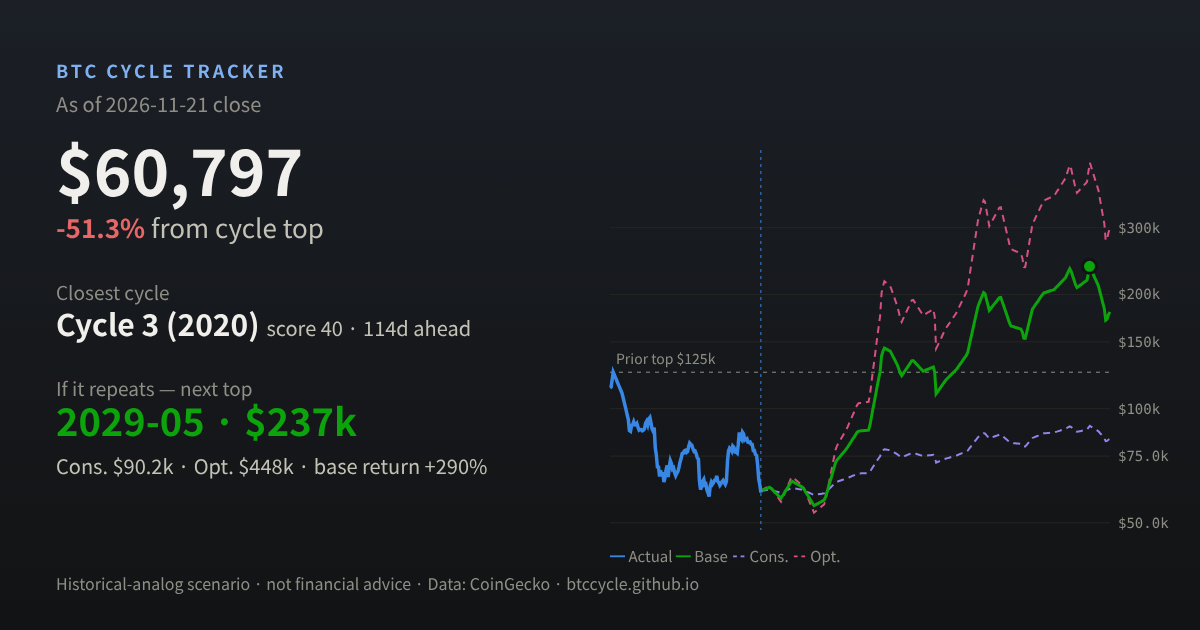
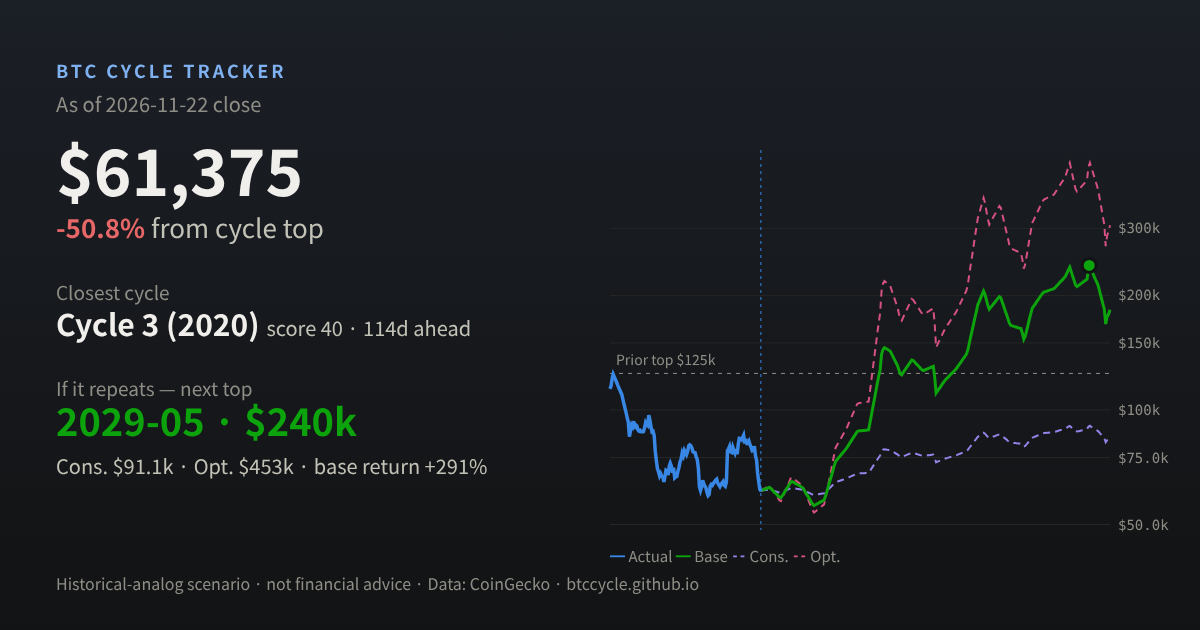
Daily data 2026-11-23

diff --git a/index.html b/index.html
@@ -496,7 +496,7 @@ const NEXT_HALVING_EST = '2028-04-15';
 // CoinGecko get-coin-market-chart snapshot (id=bitcoin; days=365/90/7), taken 2026-11-15 — fallback when the live API is unreachable
 const CG_SNAPSHOT = {"d365":{"startTs":1763251200000,"endTs":1794752830000,"prices":[95380,92903,85088,88256,91324,90360,93429,89227,91987,90253,87720,88092,88490,87192,87867,87575,90614,93650,90552,91201,95593,93344,89454,86625,89212,78647,75628,70273,70175,66259,68779,66427,68026,64074,65891,68816,70868,66043,70417,72934,71220,68424,70529,66330,66691,66888,69002,70645,73022,74297,77126,75858,78275,77367,76297,78512,81437,80678,80482,79069,76959,77550,77016,74340,73820,66727,60960,61670,63532,66293,62897,63255,60990,59953,58566,62554,64001,63193,63747,64717,64796,66521,64318,63882,62820,63465,64263,64856,63409,63031,64686,78318,78974,80268,77658,77297,79822,78283,77262,75590,80874,86597,84378,84449,83576,84743,85540,82564,81795,82156,82020,84082,80049,81274,77521,77385,75775,75267,71372,65197]},"d90":{"startTs":1786996800000,"endTs":1794771080000,"prices":[64241,64166,64250,69679,72643,77342,77181,77065,77394,79458,79157,79069,78706,80329,79292,77513,78157,79316,78670,78698,77241,77155,77700,81056,79671,80045,79912,79750,79093,78511,79586,78405,76879,77037,77317,77099,76767,78986,76548,75699,76320,76533,80014,81286,80276,81071,85822,86180,86528,84226,84393,84569,83927,84142,84443,82630,83038,83583,84296,83936,86620,84543,84856,85293,85751,85771,85722,83713,82638,81686,82374,82745,83093,83869,82365,83278,83370,81564,82309,81961,81626,81594,80814,82202,81448,82727,84627,81810,81670,80908,80348,80557,80449,79704,80825,80451,80203,78147,76872,77554,77983,78334,76781,77573,78405,80354,76006,75694,75922,75727,75191,74609,74312,73551,74002,71690,69507,67133,62612,64937]},"d7":{"startTs":1794168000000,"endTs":1794770510000,"prices":[75849,75687,74406,74740,75092,75195,74781,74415,74256,74482,74217,74316,74847,74659,75465,75007,74609,74803,74804,75182,75267,75004,74792,74479,74740,74566,74635,74448,74338,74312,73704,73210,72840,73416,73390,73704,73625,73721,73528,73569,73695,73860,73551,73658,73716,73949,73826,73739,73935,74218,74444,74338,74612,73849,73974,73618,73726,73723,73520,73447,73515,73418,72856,72826,72430,71617,71695,71690,71626,71388,71341,71372,70887,70188,68891,68062,69030,68653,69041,69287,69142,69507,68807,68640,68931,68994,68823,68208,68314,68234,67622,66691,67160,67327,66942,67363,67218,66955,66787,65673,65287,65518,65722,64832,63500,64120,62612,64899,64794,64506,64438,65073,65321,65345,65467,65425,64719,64676,64689,64968]},"asOf":1794770510000};
 // Daily UTC closes accumulated by scripts/add-closes.mjs: [utcDay, close]
-const CG_CLOSES = [[20765,74740],[20766,75267],[20767,73721],[20768,73974],[20769,71372],[20770,68314],[20771,64120.24],[20772,65305.28],[20773,64840.87],[20774,64889.41],[20775,62996.68],[20776,61921.36],[20777,58817.93],[20778,60121.3]];
+const CG_CLOSES = [[20765,74740],[20766,75267],[20767,73721],[20768,73974],[20769,71372],[20770,68314],[20771,64120.24],[20772,65305.28],[20773,64840.87],[20774,64889.41],[20775,62996.68],[20776,61921.36],[20777,58817.93],[20778,60121.3],[20779,61172.02]];
 const COMP_COLOR = '#a3a29a';
 const cname = c => `Cycle ${c.id.slice(1)}`;
 
